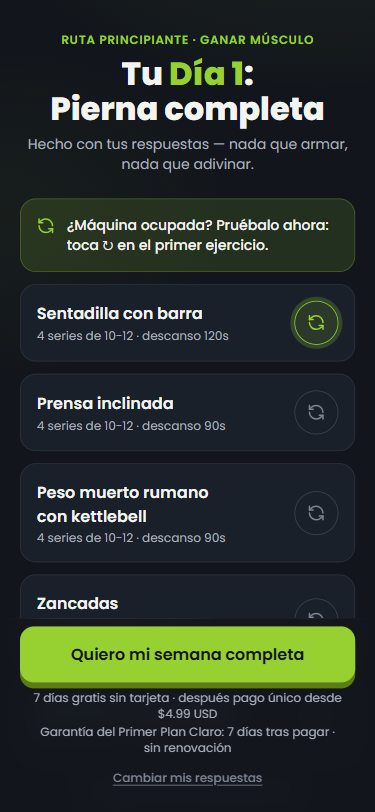
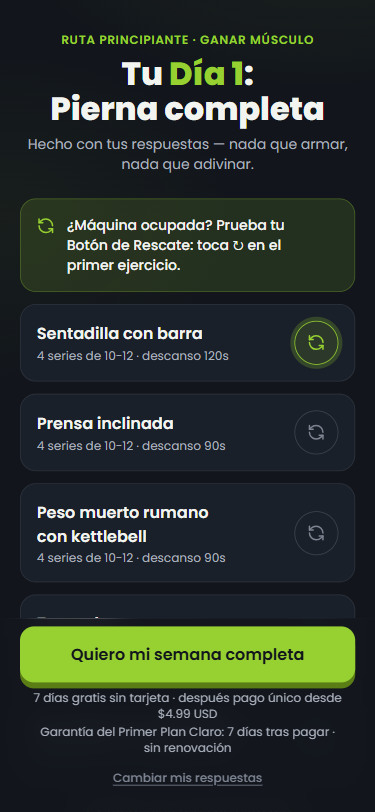
fix: ronda 13 (swap animado, dias reales, demo tocable) y resultado del revisor

diff --git a/app/onboarding/plan/page.tsx b/app/onboarding/plan/page.tsx
@@ -9,7 +9,7 @@
 
 import { useEffect, useState } from 'react';
 import { useRouter } from 'next/navigation';
-import { MotionConfig, motion } from 'motion/react';
+import { AnimatePresence, MotionConfig, motion } from 'motion/react';
 import { Lock, RefreshCcw } from 'lucide-react';
 import { leerRespuestas, type RespuestasOnboarding } from '@/lib/onboarding';
 import { registrarEvento } from '@/lib/analitica';
@@ -62,7 +62,7 @@ export default function VistaPreviaDiaUnoPage() {
   // Las demás sesiones de SU plan (según los días que eligió), no nombres de relleno.
   const restoSemana = Array.from({ length: diasPlan - 1 }, (_, i) => {
     const sesion = sesionDelCiclo(i + 1, diasPlan);
-    return { nombre: nombreDeSesion(sesion), ejercicios: ejerciciosDeSesion(sesion, respuestas.nivel).slice(0, 3).map((e) => e.nombre) };
+    return { nombre: nombreDeSesion(sesion), total: ejerciciosDeSesion(sesion, respuestas.nivel).length };
   });
 
   return (
@@ -106,7 +106,7 @@ export default function VistaPreviaDiaUnoPage() {
             <p className="text-sm font-medium text-[var(--text-primary)]" aria-live="polite">
               {ultimoCambio
                 ? '¡Listo! Así de rápido cambias de ejercicio en el gym, sin perder la sesión. Toca de nuevo para volver.'
-                : '¿Máquina ocupada? Pruébalo ahora: toca ↻ en el primer ejercicio.'}
+                : '¿Máquina ocupada? Prueba tu Botón de Rescate: toca ↻ en el primer ejercicio.'}
             </p>
           </motion.div>
 
@@ -126,7 +126,18 @@ export default function VistaPreviaDiaUnoPage() {
                 }`}
               >
                 <div className="min-w-0 flex-1">
-                  <p className="text-base font-semibold text-[var(--text-primary)]">{ej.nombre}</p>
+                  <AnimatePresence mode="wait" initial={false}>
+                    <motion.p
+                      key={ej.id}
+                      initial={{ opacity: 0, y: 6 }}
+                      animate={{ opacity: 1, y: 0 }}
+                      exit={{ opacity: 0, y: -6 }}
+                      transition={{ duration: 0.18 }}
+                      className="text-base font-semibold text-[var(--text-primary)]"
+                    >
+                      {ej.nombre}
+                    </motion.p>
+                  </AnimatePresence>
                   <p className="mt-0.5 text-xs text-[var(--text-secondary)]">
                     {ej.series} series de {ej.reps} · descanso {ej.descansoSeg}s
                   </p>
@@ -173,28 +184,22 @@ export default function VistaPreviaDiaUnoPage() {
         {restoSemana.length > 0 && (
         <div className="mt-8 pb-4">
           <p className="text-xs font-semibold uppercase tracking-[0.06em] text-[var(--text-tertiary)]">
-            El resto de tu semana
+            El resto de tu semana · se desbloquea con tu prueba gratis
           </p>
-          {/* Curiosidad en vez de candado (25/09/2026): los días que siguen se
-              ven vagamente bajo un desenfoque — la persona reconoce que hay
-              plan real detrás — y el texto encima invita a desbloquearlos. */}
-          <div className="relative mt-3">
-            <div aria-hidden="true" className="flex flex-col gap-2 blur-[5px] select-none">
-              {restoSemana.map((dia, i) => (
-                <div key={`${i}-${dia.nombre}`} className="rounded-xl bg-[var(--surface-2)] px-4 py-3">
-                  <p className="text-sm font-semibold text-[var(--text-primary)]">{dia.nombre}</p>
-                  <p className="mt-0.5 truncate text-xs text-[var(--text-secondary)]">{dia.ejercicios.join(' · ')}</p>
+          {/* Días reales de SU plan (nombre y cantidad de ejercicios), sin
+              desenfoque: la persona ve que hay plan detrás y qué se abre. */}
+          <div className="mt-3 flex flex-col gap-2">
+            {restoSemana.map((dia, i) => (
+              <div key={`${i}-${dia.nombre}`} className="flex items-center gap-3 rounded-xl bg-[var(--surface-2)] px-4 py-3">
+                <div className="min-w-0 flex-1">
+                  <p className="text-sm font-semibold text-[var(--text-primary)]">
+                    Día {i + 2} · {dia.nombre}
+                  </p>
+                  <p className="mt-0.5 text-xs text-[var(--text-secondary)]">{dia.total} ejercicios</p>
                 </div>
-              ))}
-            </div>
-            <div className="absolute inset-0 flex items-center justify-center">
-              {/* Botón de verdad (ronda 8 del revisor): antes era un <p> con forma
-                  de píldora tocable que no hacía nada — "todo lo que parece
-                  tocable, hace algo". Lleva al mismo destino que el CTA fijo. */}
-              <p className="flex items-center gap-1.5 text-sm font-bold text-[var(--text-primary)]">
-                <Lock size={14} aria-hidden="true" /> Se desbloquea con tu prueba gratis
-              </p>
-            </div>
+                <Lock size={14} className="shrink-0 text-[var(--text-tertiary)]" aria-hidden="true" />
+              </div>
+            ))}
           </div>
         </div>
         )}

diff --git a/app/paywall/page.tsx b/app/paywall/page.tsx
@@ -91,6 +91,7 @@ export default function PaywallPage() {
   // solo que todavía no hace nada, sin acortar el tiempo de lectura pedido).
   const [cerrarMeneo, setCerrarMeneo] = useState(false);
   const [renovando, setRenovando] = useState(false);
+  const [demoAlterna, setDemoAlterna] = useState(false);
   const [finPrueba, setFinPrueba] = useState(false);
   const timersRef = useRef<ReturnType<typeof setTimeout>[]>([]);
 
@@ -279,19 +280,36 @@ export default function PaywallPage() {
           className="mt-5 overflow-hidden rounded-[var(--radius-card)] border border-[color-mix(in_oklab,var(--text-tertiary)_20%,transparent)] bg-[var(--surface)]"
         >
           {/* Mini-demo del mecanismo (en vez de un video de gimnasio): el ejercicio A cambia por el B. */}
-          <div aria-hidden="true" className="flex items-center gap-2 bg-[var(--surface-2)] px-4 py-3">
+          {/* Es tocable de verdad: cada toque cambia la alternativa, igual que el
+              Botón de Rescate dentro de la app. */}
+          <button
+            type="button"
+            onClick={() => setDemoAlterna((v) => !v)}
+            aria-label="Probar el Botón de Rescate: cambiar la alternativa a Prensa ocupada"
+            className="flex w-full items-center gap-2 bg-[var(--surface-2)] px-4 py-3 text-left"
+          >
             <span className="min-w-0 flex-1 rounded-xl border border-[color-mix(in_oklab,var(--text-tertiary)_25%,transparent)] px-2 py-2 text-center text-[12.5px] leading-tight font-medium text-[var(--text-tertiary)] line-through decoration-[var(--accent)] decoration-2">
               Prensa ocupada
             </span>
-            <RefreshCcw size={18} color="var(--accent)" className="shrink-0" />
-            <span className="min-w-0 flex-1 rounded-xl border border-[var(--accent)] bg-[var(--chip-bg)] px-2 py-2 text-center text-[12.5px] leading-tight font-semibold text-[var(--text-primary)]">
-              Sentadilla guiada
+            <motion.span animate={reduce ? {} : { rotate: demoAlterna ? 180 : 0 }} transition={{ duration: 0.25 }} className="shrink-0">
+              <RefreshCcw size={18} color="var(--accent)" />
+            </motion.span>
+            <span className="relative min-w-0 flex-1 overflow-hidden rounded-xl border border-[var(--accent)] bg-[var(--chip-bg)] px-2 py-2 text-center text-[12.5px] leading-tight font-semibold text-[var(--text-primary)]">
+              <AnimatePresence mode="wait" initial={false}>
+                <motion.span
+                  key={demoAlterna ? 'b' : 'a'}
+                  initial={reduce ? {} : { opacity: 0, y: 6 }}
+                  animate={{ opacity: 1, y: 0 }}
+                  exit={reduce ? {} : { opacity: 0, y: -6 }}
+                  transition={{ duration: 0.15 }}
+                  className="block"
+                >
+                  {demoAlterna ? 'Zancadas con mancuernas' : 'Sentadilla guiada'}
+                </motion.span>
+              </AnimatePresence>
             </span>
-          </div>
-          <p className="px-4 pt-2 text-[13px] text-[var(--text-secondary)]">
-            <strong className="font-semibold text-[var(--text-primary)]">Así funciona el rescate:</strong> un toque y tienes otro ejercicio.
-          </p>
-          <ul className="flex flex-wrap gap-x-3 gap-y-1 px-4 pb-2.5 pt-1.5 text-[12px] font-medium text-[var(--text-primary)]">
+          </button>
+          <ul className="flex flex-wrap gap-x-3 gap-y-1 px-4 pb-2.5 pt-2 text-[12px] font-medium text-[var(--text-primary)]">
             {['Plan por nivel y días', '70 ejercicios con técnica', 'Registro y progreso'].map((t) => (
               <li key={t} className="flex items-center gap-1">
                 <Check size={12} color="var(--accent)" strokeWidth={3} aria-hidden="true" /> {t}
@@ -392,8 +410,7 @@ export default function PaywallPage() {
 
         {modoPrueba ? (
           <p className="mt-2 text-center text-sm font-medium text-[var(--text-primary)]">
-            Hoy $0, sin tarjeta. Si sigues: pago único de ${infoPlan.precioTotal.toFixed(2)} USD
-            {totalCOP ? ` (≈ ${totalCOP})` : ''}, sin renovación.
+            Hoy $0, sin tarjeta. Si sigues: pago único de ${infoPlan.precioTotal.toFixed(2)} USD, sin renovación y con garantía de 7 días.
           </p>
         ) : (
           <p className="mt-2 text-center text-xs text-[var(--text-secondary)]">

diff --git a/components/landing/LandingV2.tsx b/components/landing/LandingV2.tsx
@@ -40,7 +40,7 @@ export default function LandingV2() {
         subtitleMarked="Un plan exacto, con la técnica correcta — [b]sin improvisar[/b] ni arriesgar tu espalda"
         ctaLabel={CTA_LABEL}
         ctaHref={CTA_HREF}
-        socialProof={<span>Garantía del Primer Plan Claro: 7 días desde tu pago</span>}
+        socialProof={<span>Sin tarjeta · 7 días gratis · sin renovación automática</span>}
         visual={
           // eslint-disable-next-line @next/next/no-img-element -- Hero.tsx del kit usa <img> a propósito (portable, ver su comentario)
           <img

diff --git a/components/landing/LandingV1.tsx b/components/landing/LandingV1.tsx
@@ -34,7 +34,7 @@ export default function LandingV1() {
         subtitleMarked="El Botón de Rescate te da otro ejercicio [b]al instante[/b] sin pensar ni improvisar"
         ctaLabel={CTA_LABEL}
         ctaHref={CTA_HREF}
-        socialProof={<span>Garantía del Primer Plan Claro: 7 días desde tu pago</span>}
+        socialProof={<span>Sin tarjeta · 7 días gratis · sin renovación automática</span>}
         visual={
           // eslint-disable-next-line @next/next/no-img-element -- Hero.tsx del kit usa <img> a propósito (portable, ver su comentario)
           <img

diff --git a/ESTADO.md b/ESTADO.md
@@ -1275,6 +1275,7 @@ Sesión 6 (integraciones reales y seguridad) — en curso.
 - **veredicto:landing / veredicto:paywall — mismo ruido de siempre, tras los cambios de Perfil y el default de descanso automático (22/09/2026)**: esta sesión solo tocó `app/app/perfil/page.tsx`, `lib/routine.ts` y `supabase/migrations/0020_*` — ninguno es `app/page.tsx` (landing) ni `app/paywall/page.tsx`. Mismo patrón de siempre: el hook compara contra CUALQUIER `.tsx` más nuevo del repo, no contra el archivo real de cada pantalla. **veredicto:onboarding**: sigue cerrada como NO LISTA a propósito, decisión informada del usuario del 16/09/2026 — no es algo nuevo de hoy. Perfil no es una de las 4 pantallas del dinero, así que este cambio no necesita pasada del revisor-visual.
 - **veredicto:landing / veredicto:paywall — mismo ruido de siempre, reconfirmado tras el commit del calendario (22/09/2026)**: esta sesión solo tocó `app/app/calendario/page.tsx`, `app/app/calendario/[fecha]/page.tsx` y `app/app/page.tsx` (Plan del día) — ninguno es `app/page.tsx` (landing) ni `app/paywall/page.tsx`. El hook marcó "landing" caducado citando `app/admin/costos/*`/`GraficoVentas.tsx` (código de panel de administrador de una sesión previa, sin relación) y "paywall" caducado citando los archivos del calendario/historial de hoy — mismo patrón de siempre: compara contra CUALQUIER `.tsx` más nuevo del repo, no contra el archivo real de cada pantalla. No hace falta re-lanzar el revisor por esto. **veredicto:onboarding**: sigue cerrada como NO LISTA a propósito, decisión informada del usuario del 16/09/2026 (ver esa entrada más abajo) — no es algo nuevo de hoy.
 - **veredicto:landing / veredicto:paywall — cambio REAL y grande (21/09/2026, commit `b91a5d9`, pago único), revisor-visual pospuesto a propósito**: `app/paywall/page.tsx` (sin trial, línea de pago con fecha, modo renovar, texto de medios de pago, CTA con precio) y la sección de planes de la landing (`Oferta.tsx`, LandingV1/V2: 3 planes sin trial + bloque 'Así funciona el pago') cambiaron de composición y de contenido. No se relanza el revisor todavía porque el código sigue sin publicarse (faltan los pasos manuales de Hotmart/Vercel/Supabase, ver checkpoint de pago único): conviene UNA sola pasada del revisor sobre landing + paywall + onboarding cuando ese conjunto esté listo, no una por cambio. Hasta entonces los veredictos de esas pantallas NO reflejan el estado del código. **veredicto:onboarding**: sigue NO LISTA a propósito (ver entrada del 16/09).
+- **[veredicto:landing] [veredicto:paywall] [veredicto:onboarding] — RONDA 13 (06/10/2026), las 3 siguen NO LISTA**: landing 33/40 · 15/20 · copy 14/20 (la mejor usabilidad hasta ahora; el revisor admite verificación incompleta del eje de movimiento); onboarding 28/40 · 14/20 · copy 14/20; paywall 30/40 · 15/20 · copy 14/20 (gate ≥36 · ≥16 · ≥16). Cambios: onboarding (swap animado del ejercicio, 'Botón de Rescate' nombrado, días reales con candado en vez de desenfoque), paywall (demo tocable, garantía en la nota), landing (línea del hero sin garantía). Tres rondas seguidas sin cruzar el gate: lo que falta es prueba social real y el frame del hero recapturado. Defectos de código aún abiertos: barra fija tapa la tarjeta Mensual y el 4º ejercicio, microcopy bajo el CTA sin precio exacto, 'Cambiar mis respuestas' poco visible, CTA final oliva sobre crema, tachado 'Antes' con bajo contraste, días bloqueados parecen tocables. Decisión del dueño pendiente: beta cerrada con riesgo aceptado, o más rondas.
 - **[veredicto:landing] [veredicto:paywall] [veredicto:onboarding] — RONDA 12 (06/10/2026), las 3 siguen NO LISTA**: landing 31/40 · 15/20 · copy 14/20; onboarding 29/40 · 14/20 · copy 15/20; paywall 29/40 · 14/20 · copy 15/20 (gate ≥36 · ≥16 · copy ≥16). Cambios de esta ronda: paywall (entregables con checks, encabezado de plan, badge 'MEJOR PRECIO · AHORRAS 50%', COP solo en el plan elegido, badge por encima del anillo), onboarding (h1 32px, etiqueta no tocable, whileTap, garantía con nombre, 'Cambiar mis respuestas'), landing (sin sección Mecanismos), FICHA-MERCADO alineada al pago único. Lo que queda y NO se arregla con código: prueba social real, recaptura del frame del hero (emoji y 'Racha: 0 semanas'). Pendiente de código si se hace ronda 13: animación del swap del Botón de Rescate (AnimatePresence), 'Botón de Rescate' visible en el texto de ayuda, Mensual tapada por la barra fija en el primer viewport, lima solo en CTA/precio en la landing.
 - **[veredicto:landing] [veredicto:paywall] [veredicto:onboarding] — RONDA 11 (06/10/2026), en curso**: cambios de código tras la ronda 10 — paywall (tarjetas compactas de una línea, sin relleno muerto, demo rotulada, whileTap con reduced-motion), landing (precio héroe = total del pago único en V1/V2, `CtaButton sobreClaro` para el CTA final), onboarding/plan (pista del rescate arriba, 'Día 1' en acento, fondo con profundidad, MotionConfig, microcopy con precio). Pendiente a propósito: frame del hero con emoji y 'Racha: 0 semanas' (hay que recapturar la imagen), prueba social real. RESULTADO RONDA 11: las 3 siguen NO LISTA — landing 29/40 · 15/20 · copy 17/20 (el copy ya pasa); paywall 29/40 · 14/20 · copy 13/20; onboarding 27/40 · 13/20 · copy 12/20 (el puntaje del onboarding bajó pese a los cambios: el revisor varía entre pasadas). Pendiente por pantalla: paywall = lista de entregables con chips y cifras, barra fija tapa la tarjeta Mensual, badge 'MÁS POPULAR' sin respaldo; onboarding = h1 más grande, microcopy con garantía nombrada, quitar el 2º CTA de la píldora, 'Cambiar mis respuestas'; landing = recapturar el frame del hero, tarjetas de plan sin estado de selección, página de ~9.990px, sin prueba social real.
 - **[veredicto:landing] [veredicto:paywall] [veredicto:onboarding] — RONDA 10 (05/10/2026), las 3 siguen NO LISTA**: landing 29/40 · 13/20 · copy 14/20; onboarding 31/40 · 12/20 · copy 11/20; paywall 28/40 · 13/20 · copy 12/20 (gate ≥36 · ≥16 · copy ≥16). Capturas nuevas `docs/revisiones/*-375*.png`. Defectos que se repiten: (1) paywall: el plan elegido no cambia el CTA y la barra fija tapa la tarjeta Mensual; (2) landing: precios mostrados como mensuales siendo pago único, CTA final lima sobre fondo claro con poco contraste, frame del hero con emoji y 'Racha: 0 semanas', sin prueba social real, página de ~9.900px; (3) onboarding: pista del Botón de Rescate bajo el pliegue, sin precio ni plazo de garantía, fondo plano; (4) las tres: poca identidad propia (hairline, chips SVG) y movimiento. Sin cambios de código en esta ronda. Decisión del dueño: corregir estos puntos (ronda 11) o lanzar la beta cerrada con riesgo aceptado.

diff --git a/docs/revisiones/landing-veredicto.md b/docs/revisiones/landing-veredicto.md
@@ -1,9 +1,9 @@
 # VEREDICTO revisor-visual — landing
 Fecha: 2026-10-06 12:00
 Screenshot: docs/revisiones/landing-375.png
-Usabilidad: 31/40
+Usabilidad: 33/40
 Craft: 15/20
 Copy (si vende): 14/20
 Fidelidad (si hubo referencia): N-A
 Veredicto: NO LISTA
-Top defectos: 1) Hero: frame con emoji de bicep como icono y "Racha: 0 semanas" (primer dato que ve el visitante es un cero; rompe la regla de cero emojis y la promesa de progreso). 2) Sin prueba social ni evidencia verificable propia: la especificidad del copy depende solo del ancla Fitbod (copy eje 2 = 2); poner dato real (demo, numero de ejercicios mostrados, garantia visible junto al CTA del hero). 3) Contraste bajo en el bloque "Antes" tachado (gris sobre gris, casi ilegible) y mensaje de hero "Garantia... desde tu pago" justo bajo "7 dias gratis" confunde la secuencia prueba -> pago -> garantia. 4) Oferta: stack de 5 lineas sin valor por linea y features del plan Anual (3) no coinciden con el stack (5); alinear stack y tarjeta Anual. 5) Acento lima usado en kicker + titular + CTA + ahorros en casi cada seccion: diluye la regla 10% de la ficha; reservarlo a CTA y dato clave. Craft 15/20: jerarquia 3, profundidad 3, identidad 3, movimiento 3 (reveal/conteo/whileTap/reduced-motion verificados en codigo), encaje 3. Colores y Poppins coinciden con FICHA-ARTE.
+Top defectos: 1) Hero: frame con emoji de bíceps y "Racha: 0 semanas" junto a "2 de 4 días" (contradictorio, emoji prohibido) y el hero muestra la pantalla de rutina, no el Botón de Rescate que vende. 2) Cero prueba social/demo verificable en toda la página (copy especificidad y emoción). 3) Oferta: bloque de precios muy largo (stack + cómo funciona + 3 tarjetas con COP + nota de fuente "ficha oficial de Fitbod") antes del CTA; exceso de carga y el anclaje cita fuente con jerga. 4) Mecanismo "Botón de Rescate" sin demo visual en el hero ni en la solución; el bloque Antes/Después tiene texto tachado casi ilegible (bajo contraste). 5) CTA final en tono oliva oscuro sobre crema con recap gris pequeño de bajo contraste; el cambio de plano claro rompe la jerarquía del único CTA primario.

diff --git a/docs/revisiones/onboarding-veredicto.md b/docs/revisiones/onboarding-veredicto.md
@@ -1,9 +1,9 @@
-# VEREDICTO revisor-visual — onboarding (Tu Día 1, /onboarding/plan) — ronda 12
+# VEREDICTO revisor-visual — onboarding (Tu Día 1, /onboarding/plan) — ronda 13
 Fecha: 2026-10-06 12:00
 Screenshot: docs/revisiones/onboarding-375.png
-Usabilidad: 29/40
+Usabilidad: 28/40
 Craft: 14/20
-Copy (si vende): 15/20
+Copy (si vende): 14/20
 Fidelidad (si hubo referencia): N-A
 Veredicto: NO LISTA
-Top defectos: 1) Movimiento: el swap del Botón de Rescate (momento aha) no tiene animación ni celebración, solo cambio de color; 2) Oferta incoherente con FICHA-MERCADO ("pago único desde $4.99" vs $4.99/mes o $29.99/año; "desde" ambiguo; ficha sin actualizar); 3) El mecanismo "Botón de Rescate" no se nombra en el copy visible (solo en aria-label); 4) Bloque CTA fijo ocupa ~21% del viewport (CTA + 3 líneas de 12px + enlace) y tapa el 5to ejercicio; más de 3 tamaños de texto; 5) Sección "resto de tu semana" es relleno borroso con espacio muerto debajo, y "Cambiar mis respuestas" (12px, gris terciario) es el único camino de salida, sin back visible.
+Top defectos: 1) Bloque sticky inferior (CTA + 2 líneas de letra chica + link, ~26% del viewport) tapa el 4.º ejercicio y el botón "+N ejercicios más"; en el primer viewport solo se ven 3 ejercicios completos. 2) Oferta confusa: "7 días gratis sin tarjeta · después pago único desde $4.99 USD" más "garantía 7 días tras pagar" mezcla trial, pago único y garantía en 12px, sin precio exacto ni ancla. 3) Identidad pobre: solo lima + Poppins + canto 3D; sin fotografía/textura de gimnasio nocturno que la ficha define como mundo del sujeto; sin conteo/anillo/celebración al probar el Rescate (el feedback es solo cambio de texto). 4) Los 3 días bloqueados con candado parecen tarjetas tocables y no hacen nada; el candado de 14px es apenas perceptible. 5) Sin estado de error ni salida clara (si no hay respuestas redirige en silencio; no hay botón volver visible, solo link de 12px); microtexto de 12px para precio y garantía bajo AA cómodo de lectura.

diff --git a/docs/revisiones/paywall-veredicto.md b/docs/revisiones/paywall-veredicto.md
@@ -1,9 +1,9 @@
-# VEREDICTO revisor-visual — paywall (ronda 12)
+# VEREDICTO revisor-visual — paywall
 Fecha: 2026-10-06 12:00
 Screenshot: docs/revisiones/paywall-375.png
-Usabilidad: 29/40
-Craft: 14/20
-Copy (si vende): 15/20
+Usabilidad: 30/40
+Craft: 15/20
+Copy (si vende): 14/20
 Fidelidad (si hubo referencia): N-A
 Veredicto: NO LISTA
-Top defectos: 1) Badge "MEJOR PRECIO · AHORRAS 50%" tachado por el anillo de la tarjeta seleccionada (el ring se pinta encima del badge). 2) Plan Mensual no visible en el primer viewport: la barra fija corta Semestral a la mitad y tapa Mensual; en la captura completa Mensual no aparece y queda un hueco muerto bajo la barra. 3) Mini-demo "Prensa ocupada / Sentadilla guiada" parece interactiva y no hace nada (aria-hidden, sin handler). 4) Garantia nombrada fuera del primer viewport, separada del CTA por "Prefiero pagar ahora" y un hueco; mas de 3 tamanos tipograficos (30/24/18/16/14.5/13/12.5/12/11). 5) Pantalla densa: demo + 3 bullets + encabezado + 3 tarjetas + CTA + 2 notas + caja de confianza de 3 lineas + FAQ + 2 enlaces; la seleccion de plan no afecta al CTA de prueba.
+Top defectos: 1) Primer viewport: la barra fija tapa la tarjeta Mensual y solo asoma una franja cortada; el señuelo de 3 planes no se ve completo antes de decidir. 2) Copy emocion 2/4: el unico dolor es el kicker "Maquina ocupada, y ahora que?"; no agita el miedo a lesionarse ni la vergüenza (FICHA-AVATAR dolores 1 y 4). 3) La garantia nombrada ("Primer Plan Claro") esta bajo el pliegue; junto al CTA solo dice "garantia de 7 dias" sin nombre. 4) Redundancia en la tarjeta Anual: "AHORRAS 50%" en el badge y otra vez en el detalle; el bloque de 3 viñetas, la nota y la caja de garantia repiten promesas. 5) Jerarquia/profundidad en 3/4: precio de la tarjeta compite con el titular, texto tachado "Prensa ocupada" en gris terciario de bajo contraste, fondo con profundidad apenas perceptible.
